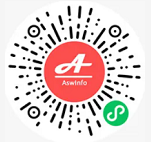
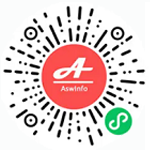
修改图片尺寸

diff --git a/docs/.vuepress/.temp/pages/kz/index.html.vue b/docs/.vuepress/.temp/pages/kz/index.html.vue
@@ -61,11 +61,11 @@
 </tbody>
 </table>
 <p><a href="https://support.qq.com/products/369710" target="_blank" rel="noopener noreferrer">وسى ارانى باسىپ قوسۋ <OutboundLink/></a></p>
-<h2 id="📚ءۇنحات-الەۋمەتتىك-ءنومىرلەر" tabindex="-1"><a class="header-anchor" href="#📚ءۇنحات-الەۋمەتتىك-ءنومىرلەر" aria-hidden="true">#</a> 📚ءۇنحات الەۋمەتتىك ءنومىرلەر</h2>
+<h2 id="📚ءۇنحات-الەۋمەتتىك-نومىرلەر" tabindex="-1"><a class="header-anchor" href="#📚ءۇنحات-الەۋمەتتىك-نومىرلەر" aria-hidden="true">#</a> 📚ءۇنحات الەۋمەتتىك نومىرلەر</h2>
 <table>
 <thead>
 <tr>
-<th>ۇلان توراب راديو</th>
+<th>ۇلان توراپ  راديوسى</th>
 <th>باۋرساق</th>
 <th>كۋابول</th>
 <th>اۋەن</th>
@@ -74,7 +74,7 @@
 <tbody>
 <tr>
 <td><img src="/wlan.png" alt="kaz"></td>
-<td><img src="/" alt="Baursak二维码"></td>
+<td><img src="/baursak.png" alt="Baursak二维码"></td>
 <td><img src="/kwabol.png" alt="KWABOL"></td>
 <td><img src="/auen.png" alt=""></td>
 </tr>
@@ -91,8 +91,7 @@
 <table>
 <thead>
 <tr>
-<th>اقتەرەك</th>
-<th>7 ءبىلىم</th>
+<th>اق تەرەك</th>
 <th>اسۋ</th>
 <th>ءسوزدىك</th>
 <th>ويان</th>
@@ -101,14 +100,12 @@
 <tbody>
 <tr>
 <td><img src="/ahterek.png" alt="翻译小程序二维码"></td>
-<td><img src="/" alt="7bilim小程序二维码"></td>
 <td><img src="/asu.png" alt="阿速信息小程序二维码"></td>
 <td><img src="/minhan.png" alt=""></td>
 <td><img src="/oylan.png" alt="OYLAN单词"></td>
 </tr>
 <tr>
 <td>哈萨克语翻译小程序</td>
-<td>在线课堂</td>
 <td>信息发布平台</td>
 <td>哈汉翻译小程序</td>
 <td>背单词小程序</td>

diff --git a/docs/.vuepress/.temp/pages/kz/index.html.js b/docs/.vuepress/.temp/pages/kz/index.html.js
@@ -19,8 +19,8 @@ export const data = {
     },
     {
       "level": 2,
-      "title": "📚ءۇنحات الەۋمەتتىك ءنومىرلەر",
-      "slug": "📚ءۇنحات-الەۋمەتتىك-ءنومىرلەر",
+      "title": "📚ءۇنحات الەۋمەتتىك نومىرلەر",
+      "slug": "📚ءۇنحات-الەۋمەتتىك-نومىرلەر",
       "children": []
     },
     {
@@ -32,26 +32,13 @@ export const data = {
   ],
   "filePathRelative": "kz/README.md",
   "git": {
-    "updatedTime": 1639489952000,
+    "updatedTime": 1640267713000,
     "contributors": [
       {
         "name": "elgar17",
         "email": "1653794708@qq.com",
-        "commits": 2
+        "commits": 3
       }
     ]
   }
-}
-
-if (import.meta.webpackHot) {
-  import.meta.webpackHot.accept()
-  if (__VUE_HMR_RUNTIME__.updatePageData) {
-    __VUE_HMR_RUNTIME__.updatePageData(data)
-  }
-}
-
-if (import.meta.hot) {
-  import.meta.hot.accept(({ data }) => {
-    __VUE_HMR_RUNTIME__.updatePageData(data)
-  })
 }

diff --git a/docs/.vuepress/.temp/pages/index.html.vue b/docs/.vuepress/.temp/pages/index.html.vue
@@ -80,7 +80,7 @@
 <tbody>
 <tr>
 <td><img src="/wlan.png" alt="kaz"></td>
-<td><img src="/" alt="Baursak二维码"></td>
+<td><img src="/baursak.png" alt="Baursak二维码"></td>
 <td><img src="/kwabol.png" alt="KWABOL"></td>
 <td><img src="/auen.png" alt="123"></td>
 </tr>
@@ -98,7 +98,6 @@
 <thead>
 <tr>
 <th>Akterek</th>
-<th>7bilim</th>
 <th>阿速信息</th>
 <th>民汉翻译</th>
 <th>OYAN单词</th>
@@ -107,14 +106,12 @@
 <tbody>
 <tr>
 <td><img src="/ahterek.png" alt="翻译小程序二维码"></td>
-<td><img src="/" alt="7bilim小程序二维码"></td>
 <td><img src="/asu.png" alt="阿速信息小程序二维码"></td>
 <td><img src="/minhan.png" alt="民汉翻译"></td>
 <td><img src="/oylan.png" alt="OYLAN单词"></td>
 </tr>
 <tr>
 <td>哈萨克语翻译小程序</td>
-<td>在线课堂</td>
 <td>信息发布平台</td>
 <td>哈汉翻译小程序</td>
 <td>背单词小程序</td>

diff --git a/docs/.vuepress/.temp/pages/index.html.js b/docs/.vuepress/.temp/pages/index.html.js
@@ -40,26 +40,13 @@ export const data = {
   ],
   "filePathRelative": "README.md",
   "git": {
-    "updatedTime": 1639489952000,
+    "updatedTime": 1640267713000,
     "contributors": [
       {
         "name": "elgar17",
         "email": "1653794708@qq.com",
-        "commits": 2
+        "commits": 3
       }
     ]
   }
-}
-
-if (import.meta.webpackHot) {
-  import.meta.webpackHot.accept()
-  if (__VUE_HMR_RUNTIME__.updatePageData) {
-    __VUE_HMR_RUNTIME__.updatePageData(data)
-  }
-}
-
-if (import.meta.hot) {
-  import.meta.hot.accept(({ data }) => {
-    __VUE_HMR_RUNTIME__.updatePageData(data)
-  })
 }

diff --git a/docs/.vuepress/.temp/pages/about.html.js b/docs/.vuepress/.temp/pages/about.html.js
@@ -29,26 +29,13 @@ export const data = {
   ],
   "filePathRelative": "about.md",
   "git": {
-    "updatedTime": 1639489952000,
+    "updatedTime": 1640267713000,
     "contributors": [
       {
         "name": "elgar17",
         "email": "1653794708@qq.com",
-        "commits": 2
+        "commits": 3
       }
     ]
   }
-}
-
-if (import.meta.webpackHot) {
-  import.meta.webpackHot.accept()
-  if (__VUE_HMR_RUNTIME__.updatePageData) {
-    __VUE_HMR_RUNTIME__.updatePageData(data)
-  }
-}
-
-if (import.meta.hot) {
-  import.meta.hot.accept(({ data }) => {
-    __VUE_HMR_RUNTIME__.updatePageData(data)
-  })
 }

diff --git a/docs/.vuepress/.temp/pages/about.html.vue b/docs/.vuepress/.temp/pages/about.html.vue
@@ -6,8 +6,10 @@
 <p>还可以提交对该网站的建议。</p>
 <h2 id="💌-联系作者" tabindex="-1"><a class="header-anchor" href="#💌-联系作者" aria-hidden="true">#</a> 💌 联系作者</h2>
 <p>微信：HARAHOZI_</p>
+<p>如果你有开发经验，欢迎参与本项目的开发。</p>
 <h2 id="🚀-更新日志" tabindex="-1"><a class="header-anchor" href="#🚀-更新日志" aria-hidden="true">#</a> 🚀 更新日志</h2>
 <ul>
+<li>2021.12.23：添加疫情数据。</li>
 <li>2021.12.14：添加搜索框，更新主题。</li>
 <li>2021.12.11：上线。</li>
 </ul>

diff --git a/docs/.vuepress/.temp/internal/themeData.js b/docs/.vuepress/.temp/internal/themeData.js
@@ -65,16 +65,3 @@ export const themeData = {
   "toggleDarkMode": "toggle dark mode",
   "toggleSidebar": "toggle sidebar"
 }
-
-if (import.meta.webpackHot) {
-  import.meta.webpackHot.accept()
-  if (__VUE_HMR_RUNTIME__.updateThemeData) {
-    __VUE_HMR_RUNTIME__.updateThemeData(themeData)
-  }
-}
-
-if (import.meta.hot) {
-  import.meta.hot.accept(({ themeData }) => {
-    __VUE_HMR_RUNTIME__.updateThemeData(themeData)
-  })
-}

diff --git a/docs/.vuepress/.temp/pages/404.html.js b/docs/.vuepress/.temp/pages/404.html.js
@@ -11,16 +11,3 @@ export const data = {
   "filePathRelative": null,
   "git": {}
 }
-
-if (import.meta.webpackHot) {
-  import.meta.webpackHot.accept()
-  if (__VUE_HMR_RUNTIME__.updatePageData) {
-    __VUE_HMR_RUNTIME__.updatePageData(data)
-  }
-}
-
-if (import.meta.hot) {
-  import.meta.hot.accept(({ data }) => {
-    __VUE_HMR_RUNTIME__.updatePageData(data)
-  })
-}

diff --git a/docs/.vuepress/.temp/internal/siteData.js b/docs/.vuepress/.temp/internal/siteData.js
@@ -29,16 +29,3 @@ export const siteData = {
     }
   }
 }
-
-if (import.meta.webpackHot) {
-  import.meta.webpackHot.accept()
-  if (__VUE_HMR_RUNTIME__.updateSiteData) {
-    __VUE_HMR_RUNTIME__.updateSiteData(siteData)
-  }
-}
-
-if (import.meta.hot) {
-  import.meta.hot.accept(({ siteData }) => {
-    __VUE_HMR_RUNTIME__.updateSiteData(siteData)
-  })
-}

diff --git a/docs/kz/README.md b/docs/kz/README.md
@@ -9,30 +9,30 @@ footer: Copyright © 2021 Elǵar
 
 ## 📄 سايتتار 
 
-| اقپارات                                                           | امبەباپ                              | مۋزىكا                          | كينو                          | توراپ                                     | قۇرال                                                        | باسقا                                 |
-|-------------------------------------------------------------------|--------------------------------------|---------------------------------|-------------------------------|-------------------------------------------|--------------------------------------------------------------|---------------------------------------|
-| [حالىقارالىق قازاق بايلانىس اگەنتتىگى ](https://www.inform.kz/ar) | [جاسقانات ](https://www.jaskanat.com) | [قازاق مۋزىكا ](http://kazamuza.net) | [تىرەك](http://www.terek.cn/) | [قازاقسوفىت](https://www.kazakhsoft.com/) | [احمەت وفەس](http://download.ahmetoffice.com/)              | [تۋمالاس ](https://tumalas.kz/mobi/#/) |
-| [كۇنلۇن تورابى](http://kazak.xjkunlun.gov.cn/)                    | [كەرۋەن ](https://home.kerwen.com/)   | [شالقار ](http://xalhar.net)     |                               |                                           | [ءسوزدك ](https://www.sozdik.net/)                           |                                       |
-| [تيانشان تورابى ](http://kazakh.ts.cn/)                           |                                      |                                 |                               |                                           | [سايكەستىرگىش ](https://www.qazlatyn.kz/tote/converter/text) |                                       |
-| [شينجياڭ گازەتى ](http://kazakh.xjdaily.com/)                     |                                      |                                 |                               |                                           | [اقتەرەك ءسوزدىك ](http://akterek.com/)                      |                                       |
-| [التاي اقبارات تورابى ](http://kazakh.altxw.com/)                 |                                      |                                 |                               |                                           |                                                              |                                       |
+| اقپارات                                                           | امبەباپ                               | مۋزىكا                               | كينو                          | توراپ                                     | قۇرال                                                        | باسقا                                  |
+|-------------------------------------------------------------------|---------------------------------------|--------------------------------------|-------------------------------|-------------------------------------------|--------------------------------------------------------------|----------------------------------------|
+| [حالىقارالىق قازاق بايلانىس اگەنتتىگى ](https://www.inform.kz/ar) | [جاسقانات ](https://www.jaskanat.com) | [قازاق مۋزىكا ](http://kazamuza.net) | [تىرەك](http://www.terek.cn/) | [قازاقسوفىت](https://www.kazakhsoft.com/) | [احمەت وفەس](http://download.ahmetoffice.com/)               | [تۋمالاس ](https://tumalas.kz/mobi/#/) |
+| [كۇنلۇن تورابى](http://kazak.xjkunlun.gov.cn/)                    | [كەرۋەن ](https://home.kerwen.com/)   | [شالقار ](http://xalhar.net)         |                               |                                           | [ءسوزدك ](https://www.sozdik.net/)                           |                                        |
+| [تيانشان تورابى ](http://kazakh.ts.cn/)                           |                                       |                                      |                               |                                           | [سايكەستىرگىش ](https://www.qazlatyn.kz/tote/converter/text) |                                        |
+| [شينجياڭ گازەتى ](http://kazakh.xjdaily.com/)                     |                                       |                                      |                               |                                           | [اقتەرەك ءسوزدىك ](http://akterek.com/)                      |                                        |
+| [التاي اقبارات تورابى ](http://kazakh.altxw.com/)                 |                                       |                                      |                               |                                           |                                                              |                                        |
 
 [وسى ارانى باسىپ قوسۋ ](https://support.qq.com/products/369710)
 
-## 📚ءۇنحات الەۋمەتتىك ءنومىرلەر
+## 📚ءۇنحات الەۋمەتتىك نومىرلەر
 
-| ۇلان توراب راديو  | باۋرساق             | كۋابول                 | اۋەن           |
-| ----------------- | ------------------- | ---------------------- | -------------- |
-| ![kaz](/wlan.png) | ![Baursak二维码](/) | ![KWABOL](/kwabol.png) | ![](/auen.png) |
-| 有温度的网络电台  | 爆笑口袋视频        | 工作，创业等有趣内容   | 最新音乐视频   |
+| ۇلان توراپ  راديوسى  | باۋرساق                        | كۋابول                 | اۋەن           |
+|-------------------|--------------------------------|------------------------|----------------|
+| ![kaz](/wlan.png) | ![Baursak二维码](/baursak.png) | ![KWABOL](/kwabol.png) | ![](/auen.png) |
+| 有温度的网络电台  | 爆笑口袋视频                   | 工作，创业等有趣内容   | 最新音乐视频   |
 
  [وسى ارانى باسىپ قوسۋ](https://support.qq.com/products/369710)
 
 ## 📱 شاعىن پروگىراممالار 
 
-| اقتەرەك                            | 7 ءبىلىم                    |          اسۋ          | ءسوزدىك | ويان |
-|-----------------------------------|--------------------------|----------------------------|-----------------------------------|-----------------------------------|
-| ![翻译小程序二维码](/ahterek.png) | ![7bilim小程序二维码](/) | ![阿速信息小程序二维码](/asu.png) | ![](/minhan.png) | ![OYLAN单词](/oylan.png) |
-| 哈萨克语翻译小程序                | 在线课堂                 | 信息发布平台               | 哈汉翻译小程序 | 背单词小程序 |
+| اق تەرەك                          | اسۋ                               | ءسوزدىك          | ويان                     |
+|-----------------------------------|-----------------------------------|------------------|--------------------------|
+| ![翻译小程序二维码](/ahterek.png) | ![阿速信息小程序二维码](/asu.png) | ![](/minhan.png) | ![OYLAN单词](/oylan.png) |
+| 哈萨克语翻译小程序                | 信息发布平台                      | 哈汉翻译小程序   | 背单词小程序             |
 
 [وسى ارانى باسىپ قوسۋ ](https://support.qq.com/products/369710)

diff --git a/docs/README.md b/docs/README.md
@@ -23,19 +23,19 @@ pageClass: hiden-title
 
 ## 📚 公众号
 
-| 乌兰网络电台      | Baursak             | Kwabol                 | Auen              |
-|-------------------|---------------------|------------------------|-------------------|
-| ![kaz](/wlan.png) | ![Baursak二维码](/) | ![KWABOL](/kwabol.png) | ![123](/auen.png) |
-| 有温度的网络电台  | 爆笑口袋视频        | 工作，创业等有趣内容   |  最新音乐视频  |
+| 乌兰网络电台      | Baursak                        | Kwabol                 | Auen              |
+|-------------------|--------------------------------|------------------------|-------------------|
+| ![kaz](/wlan.png) | ![Baursak二维码](/baursak.png) | ![KWABOL](/kwabol.png) | ![123](/auen.png) |
+| 有温度的网络电台  | 爆笑口袋视频                   | 工作，创业等有趣内容   | 最新音乐视频      |
 
 [提交公众号](https://support.qq.com/products/369710)。
 
 ## 📱 小程序
 
-| Akterek                           | 7bilim                   | 阿速信息                          | 民汉翻译                 | OYAN单词       |
-|-----------------------------------|--------------------------|-----------------------------------|--------------------------|-----------------|
-| ![翻译小程序二维码](/ahterek.png) | ![7bilim小程序二维码](/) | ![阿速信息小程序二维码](/asu.png) | ![民汉翻译](/minhan.png) | ![OYLAN单词](/oylan.png) |
-| 哈萨克语翻译小程序                | 在线课堂                 | 信息发布平台                      | 哈汉翻译小程序           | 背单词小程序    |
+| Akterek                           | 阿速信息                          | 民汉翻译                 | OYAN单词                 |
+|-----------------------------------|-----------------------------------|--------------------------|--------------------------|
+| ![翻译小程序二维码](/ahterek.png) | ![阿速信息小程序二维码](/asu.png) | ![民汉翻译](/minhan.png) | ![OYLAN单词](/oylan.png) |
+| 哈萨克语翻译小程序                | 信息发布平台                      | 哈汉翻译小程序           | 背单词小程序             |
 
 [提交小程序](https://support.qq.com/products/369710)。
 

diff --git a/docs/learn.md b/docs/learn.md
@@ -5,6 +5,7 @@
 ## 资料
 1. [哈萨克语字母表](https://elgara.gitee.io/demo/hozi/#/form)
 1. [如何评价哈萨克斯坦拉丁化哈萨克文字母表？](https://www.zhihu.com/question/65270788/answer/325188906)
+1. [قازاق ءتىلىنىڭ ەملە ەرەجەسى](https://mp.weixin.qq.com/s/pDnPV-Mzezn3qZhZZlwrwA)
 
 <!-- ## 电影
 
